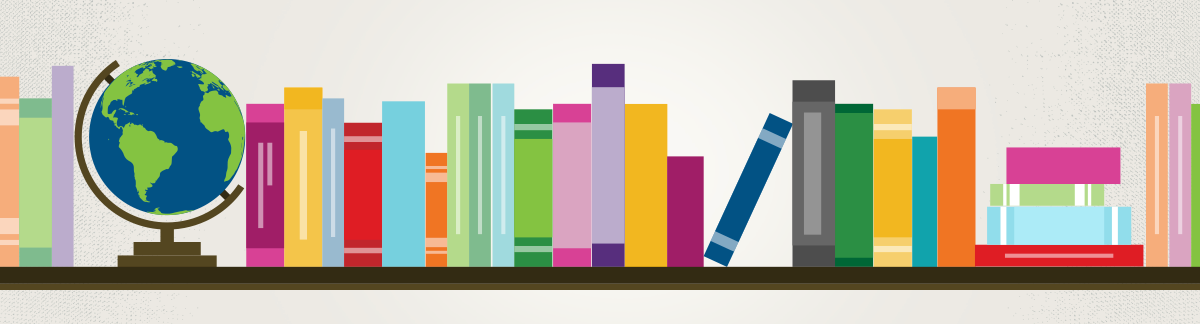
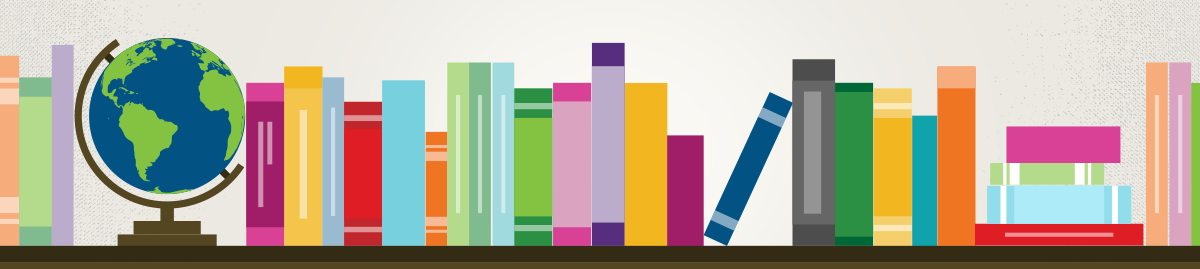
Reduccion de tamaño de imagenes y mejoras en detalles de libro

diff --git a/router.php b/router.php
@@ -88,6 +88,10 @@ switch ($params[0]) {
         $id = $params[1];
         $controller->showDetail($id);
         break;
+    case 'comprar':
+        $view = new BookView();
+        $view->showError('¡Lo sentimos, las compras no están disponibles en este momento!');
+        break;
     default:
         header("HTTP/1.0 404 Not Found");
         $view = new BookView();
